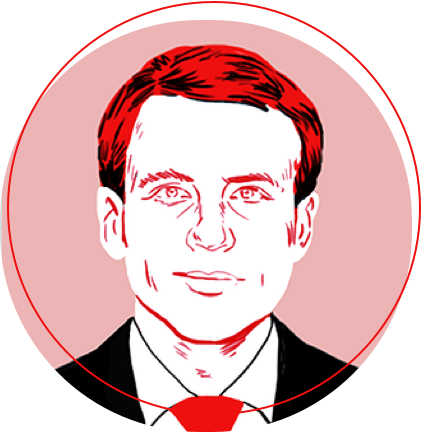
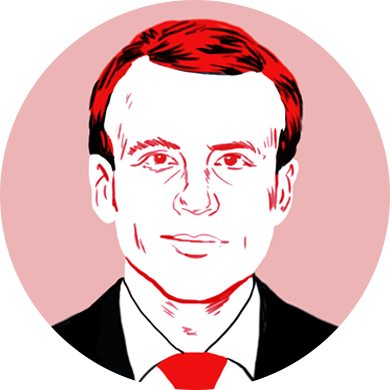
💄 Sundry aesthetic changes (#8)
* :lipstick: Sundry aesthetic changes
- Made names party colours again
- Added party name below candidate name
- Moved all colours into CSS variables
- Added paragraph of descroptive text
- Added button link to full profiles of candidates

* Updating illustrations

diff --git a/client/styles.scss b/client/styles.scss
@@ -3,6 +3,7 @@ $o-expander-is-silent: false;
 @import 'o-expander/main';
 @import 'o-colors/main';
 @import 'o-grid/main';
+@import 'o-buttons/main';
 @import 'components/core/main';
 
 // Sundry highlights and text colors
@@ -13,7 +14,15 @@ $color_melenchon: #991B1E;
 $color_hamon:     #D36C6A;
 $color_bayrou:    purple; // @TODO change to an actual colour
 
-.round-1-chart {
+$candidates-top-border-color: #979797;
+$candidate-copy-color: #666;
+$candidate-copy-bottom-border-color: #ccc;
+
+$table-header-border-color: #979797;
+$cell-date-color: #828282;
+$cell-border-color: #CEC6B9;
+
+.round-1-chart { // Can we move this somewhere better?
   height: 300px;
   width: 100%;
 
@@ -80,6 +89,9 @@ $color_bayrou:    purple; // @TODO change to an actual colour
 
 .candidates {
   @include oGridContainer();
+  text-align: center;
+  top-border: 2px solid $candidates-top-border-color;
+
   .article-body & {
     max-width: none;
     padding: 0 1em;
@@ -109,7 +121,7 @@ $color_bayrou:    purple; // @TODO change to an actual colour
   .candidates--candidate {
     padding: .5em 0;
     text-align: center;
-    
+
 
     @include oGridColspan((default: full-width, M: 4, L: 2));
 
@@ -121,37 +133,37 @@ $color_bayrou:    purple; // @TODO change to an actual colour
       padding: 0 !important;
     }
 
-    &__marine-le-pen {
+    &__lepen {
       .candidates--name {
         color: $color_lePen;
       }
     }
 
-    &__francois-fillon {
+    &__fillon {
       .candidates--name {
         color: $color_fillon;
       }
     }
 
-    &__emmanuel-macron {
+    &__macron {
       .candidates--name {
         color: $color_macron;
       }
     }
 
-    &__jean-luc-melenchon {
+    &__melenchon {
       .candidates--name {
         color: $color_melenchon;
       }
     }
 
-    &__benoit-hamon {
+    &__hamon {
       .candidates--name {
         color: $color_hamon;
       }
     }
 
-    &__francois-bayrou {
+    &__bayrou {
       .candidates--name {
         color: $color_bayrou;
       }
@@ -182,6 +194,7 @@ $color_bayrou:    purple; // @TODO change to an actual colour
   .candidates--heading{
     font-size: 1.4em;
     margin:0 0;
+    text-align: left;
 
      @include oGridRespondTo(M){
       margin:0.4em 0;
@@ -205,8 +218,7 @@ $color_bayrou:    purple; // @TODO change to an actual colour
     }
   }
 
-  .candidates--party-polling {
-    @include oGridColspan((default: full-width, M: hide));
+  .candidates--party-name {
     font-weight: 700;
     font-family: MetricWeb,sans-serif;
     padding-left: 0;
@@ -214,13 +226,18 @@ $color_bayrou:    purple; // @TODO change to an actual colour
   }
 
   .candidates--copy {
-    color: #666;
-    border-bottom: 1px solid #ccc;
+    color: $candidate-copy-color;
+    border-bottom: 1px solid $candidate-copy-bottom-border-color;
     padding-bottom: 1em;
 
     @include oGridRespondTo(M) {
       border-bottom: 0;
     }
+  }
+
+  .candidates--read-more-button {
+    @include oButtons();
+    @include oButtonsSize(big);
   }
 }
 
@@ -266,7 +283,7 @@ $color_bayrou:    purple; // @TODO change to an actual colour
   }
 
   thead tr td {
-    border-bottom: 1px solid #979797;
+    border-bottom: 1px solid $table-header-border-color;
     line-height: 1.2em;
     text-transform: uppercase;
     text-align: center;
@@ -278,8 +295,8 @@ $color_bayrou:    purple; // @TODO change to an actual colour
   }
 
   tbody td {
-    border-right: 1px solid #CEC6B9;
-    border-bottom: 1px solid #CEC6B9;
+    border-right: 1px solid $cell-border-color;
+    border-bottom: 1px solid $cell-border-color;
     text-align: center;
     padding: 0.25em 1em;
 
@@ -296,7 +313,7 @@ $color_bayrou:    purple; // @TODO change to an actual colour
   }
 
   .polls-and-data--table-cell__date {
-    color: #828282;
+    color: $cell-date-color;
     min-width: 4em;
   }
 }

diff --git a/client/index.html b/client/index.html
@@ -12,13 +12,17 @@
       <img class="candidates--profile-image" src="images/illustrations/{{candidate.key}}.png" />
       <div class="candidates--details">
         <h2 class="candidates--name">{{candidate.name.first}} {{candidate.name.last}}</h2>
-        <h3 class="candidates--party-polling candidates--party-polling__mobile">
-          TKTK
-        </h3>
+        <h3 class="candidates--party-name">{{candidate.party}}</h3>
       </div>
+      <p class="candidates--copy">tk tk tk tk tk tk tk</p>
     </li>
   {% endfor %}
   </ul>
+  <a role="button"
+    class="candidates--read-more-button"
+    href="https://ig.ft.com/sites/france-election/candidates/">
+    Read full profiles of candidates
+  </a>
 </section>
 
 <section class="polls-and-data">
